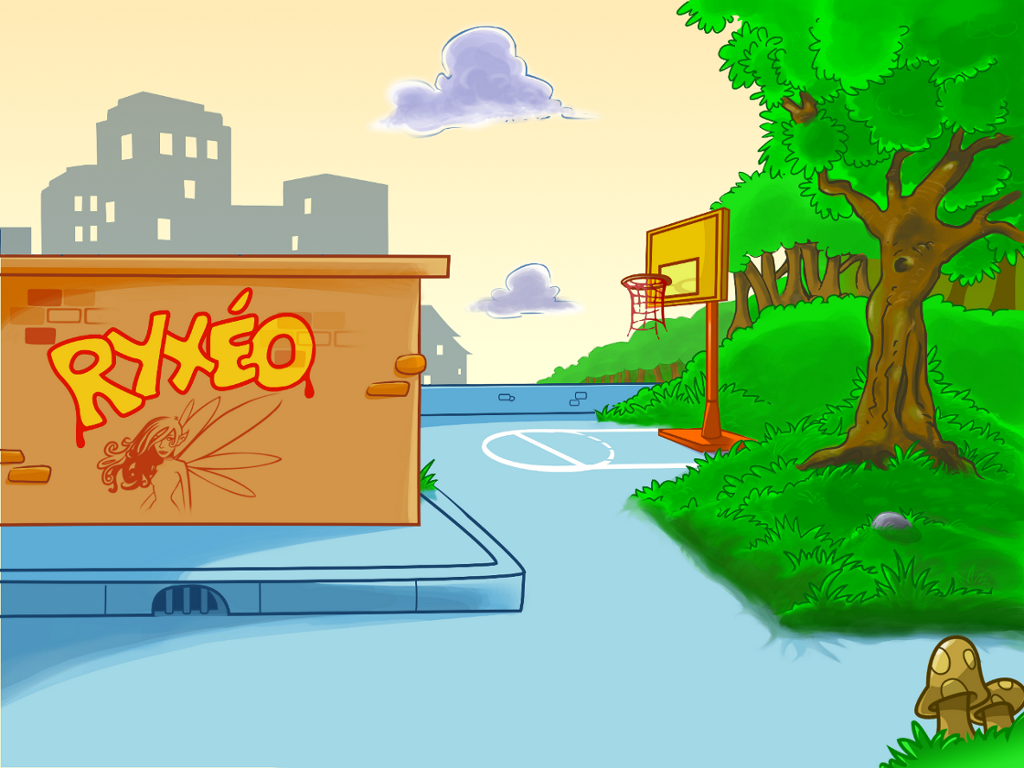
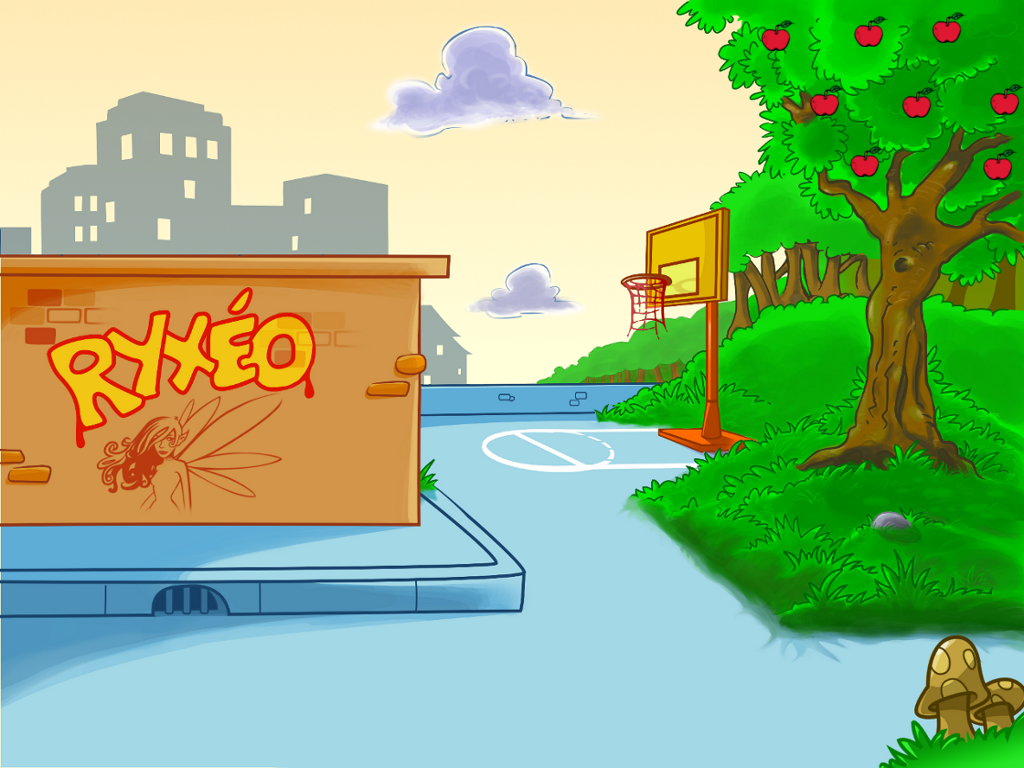
Suppression des QPushButtons (et accessoiremement ajout de pommes dans l'arbre...)

diff --git a/boutonspolygone.cpp b/boutonspolygone.cpp
@@ -22,7 +22,9 @@ QRectF boutonsPolygone::boundingRect() const
 
 void boutonsPolygone::paint(QPainter *painter, const QStyleOptionGraphicsItem *option,QWidget *widget)
 {
-    painter->setPen(Qt::NoPen);
+    //changer laquelle des 2 lignes ci-dessous est commentée selon qu'on veut que les contours du bouton soient visibles ou pas
+    //painter->setPen(Qt::NoPen);
+    painter->setPen(Qt::black);
     painter->setBrush(Qt::NoBrush);
     QRect rect(m_base->x(), m_base->y(), m_taille->width(), m_taille->height());
     painter->drawRect(rect.adjusted(0, 0, -1, -1));

diff --git a/interface.cpp b/interface.cpp
@@ -47,18 +47,6 @@ interface::~interface()
     delete ui;
 }
 
-void interface::on_btnAddition_clicked()
-{
-    exercice* e=new exercice("addition", this);
-    e->show();
-}
-
-void interface::on_btnMultiplication_clicked()
-{
-    exercice* e=new exercice("multiplication", this);
-    e->show();
-}
-
 void interface::paintEvent(QPaintEvent* e )
 {
     QMainWindow::paintEvent(e);

diff --git a/interface.h b/interface.h
@@ -24,8 +24,7 @@ private:
 
 
 private slots:
-    void on_btnMultiplication_clicked();
-    void on_btnAddition_clicked();
+
 };
 
 #endif // INTERFACE_H
